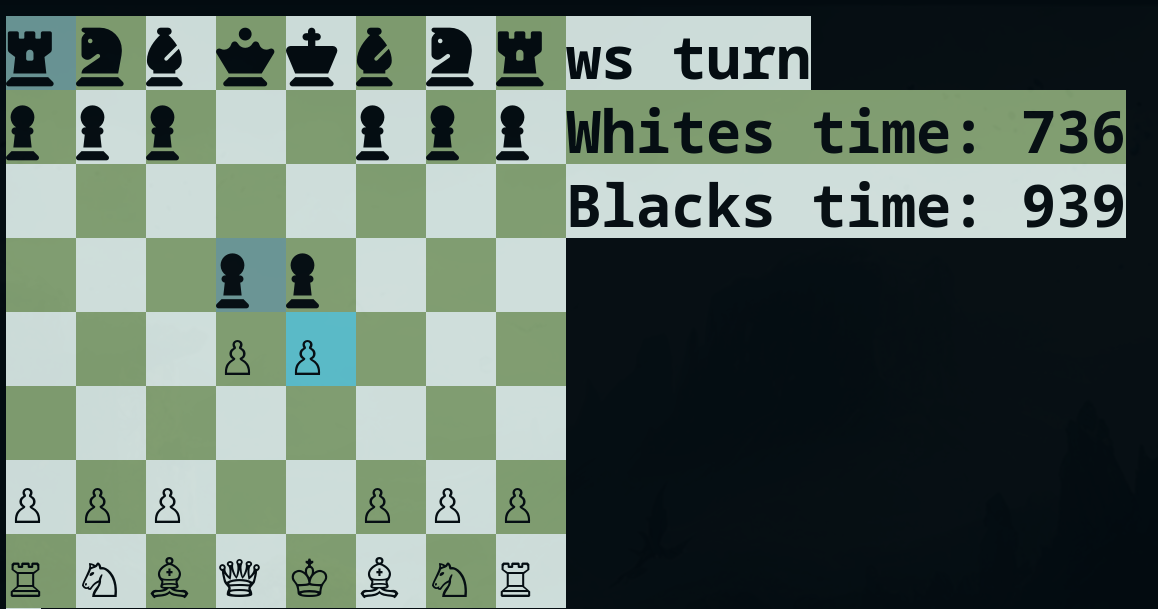
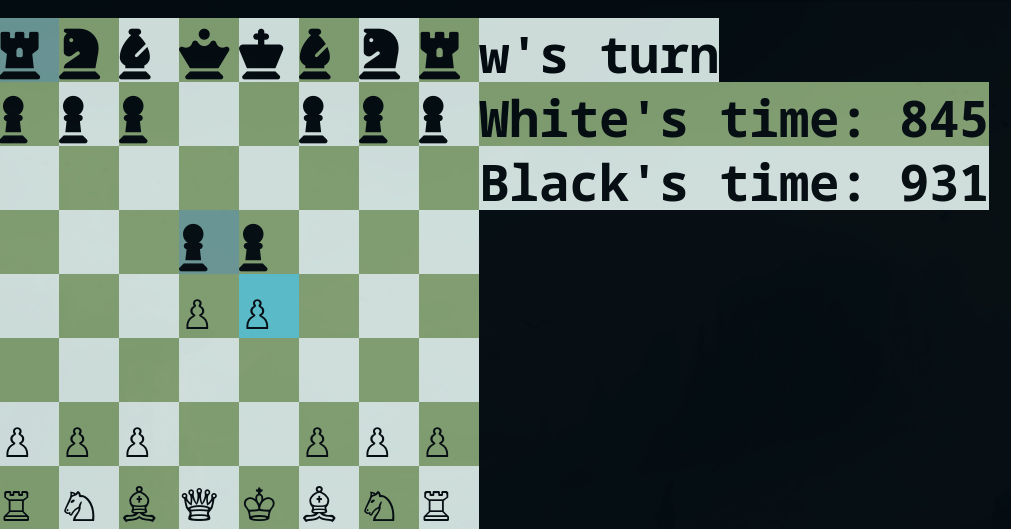
some not racist update

Changed region(s): [[0.0, 0.0, 0.9812, 1.0]]

diff --git a/src/render.c b/src/render.c
@@ -109,11 +109,11 @@ void render(char* fen, int pos, int selected, int* validMoves, int t1, int t2){
         if(!printP(c,i, pos)){
             if(c == '/') {
                 if(i == 8)
-                    printf("%cs turn",getTurn());
+                    printf("%c's turn",getTurn());
                 if(i == 17)
-                    printf("Whites time: %d", t1);
+                    printf("White's time: %d", t1);
                 if(i == 26)
-                    printf("Blacks time: %d", t2);
+                    printf("Black's time: %d", t2);
 
                 printf("\n");
             }
